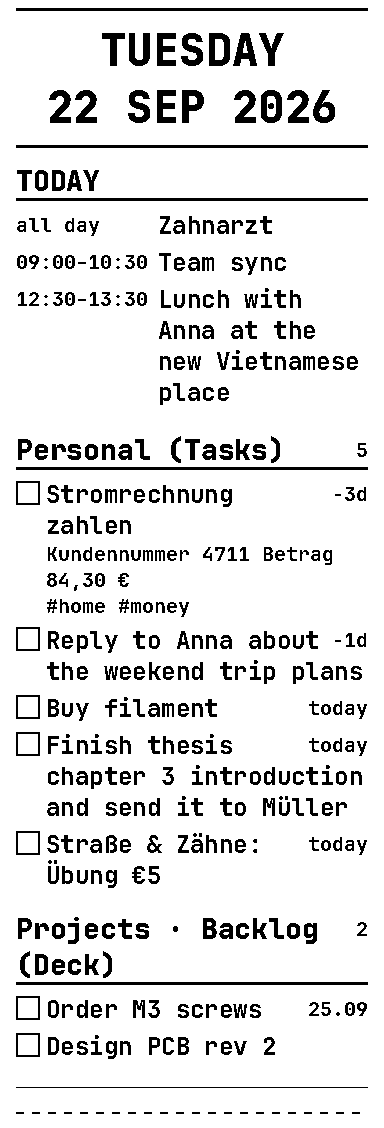
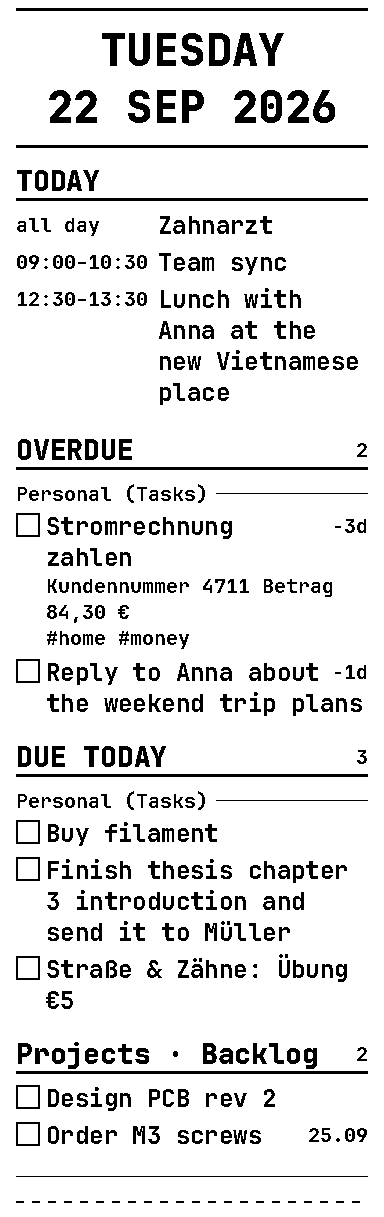
Manual prints stay silent; OVERDUE/DUE TODAY sections with list subgroups on receipt and in the terminal view

diff --git a/src/printcrastinator/receipt/layout.py b/src/printcrastinator/receipt/layout.py
@@ -15,6 +15,7 @@ from .model import (
     Rule,
     SectionHeader,
     Spacer,
+    SubHeader,
     TearLine,
     Text,
 )
@@ -77,21 +78,42 @@ def _source_label(t: TaskItem, lang: str) -> str:
     return f"{t.list_name} ({i18n.label(lang, 'src_' + t.source)})"
 
 
-def _grouped_sections(agenda: DailyAgenda, lang: str) -> list[tuple[str, list[TaskItem]]]:
-    """Tasks grouped by list/stack, each group sorted overdue first, then today, then rest."""
-    day = agenda.day
+def _by_list(items: list[TaskItem], lang: str, day: date) -> list[tuple[str, list[TaskItem]]]:
+    """Split items into (list label, items) groups; overdue oldest-first inside each group."""
     groups: dict[str, list[TaskItem]] = {}
-    for t in agenda.all_tasks:
+    for t in items:
         groups.setdefault(_source_label(t, lang), []).append(t)
 
     def rank(t: TaskItem) -> tuple:
-        late = t.days_late(day) if t.due else -(10**6)
-        return (0 if late > 0 else 1 if late == 0 else 2, -late, t.title.lower())
+        return (t.due or day, t.title.lower())
 
-    out = []
-    for name in sorted(groups, key=str.lower):
-        out.append((name, sorted(groups[name], key=rank)))
-    return out
+    return [(name, sorted(groups[name], key=rank)) for name in sorted(groups, key=str.lower)]
+
+
+def _section_items(
+    r: Receipt,
+    items: list[TaskItem],
+    agenda: DailyAgenda,
+    lang: str,
+    opt: Options,
+    *,
+    marker: bool = True,
+) -> None:
+    """Items of one section, optionally sub-grouped by list."""
+    if opt.group_by_list:
+        for name, group in _by_list(items, lang, agenda.day):
+            r.add(SubHeader(name))
+            for t in group:
+                right = _task_marker(t, agenda.day, lang) if marker else ""
+                r.add(CheckItem(t.title, right=right, meta=_notes(t, opt)))
+        return
+    for t in items:
+        right = _task_marker(t, agenda.day, lang) if marker else ""
+        meta_parts = [_source_label(t, lang)] if opt.show_list else []
+        n = _notes(t, opt)
+        if n:
+            meta_parts.append(n)
+        r.add(CheckItem(t.title, right=right, meta="\n".join(meta_parts)))
 
 
 def _status_marker(t: TaskItem, day: date, lang: str) -> str:
@@ -147,35 +169,13 @@ def daily_receipt(
         r.add(Text(i18n.label(lang, "no_tasks"), "body", "center"), Spacer(8))
         _footer(r, agenda, lang, opt)
         return r
-    if opt.group_by_list:
-        for name, items in _grouped_sections(agenda, lang):
-            r.add(SectionHeader(name, hint=str(len(items))))
-            for t in items:
-                r.add(
-                    CheckItem(
-                        t.title, right=_status_marker(t, agenda.day, lang), meta=_notes(t, opt)
-                    )
-                )
-            r.add(Spacer(14))
-        _footer(r, agenda, lang, opt)
-        return r
-
-    def meta_for(t: TaskItem) -> str:
-        parts = [_source_label(t, lang)] if opt.show_list else []
-        n = _notes(t, opt)
-        if n:
-            parts.append(n)
-        return "\n".join(parts)
-
     if agenda.overdue:
         r.add(SectionHeader(i18n.label(lang, "overdue"), hint=str(len(agenda.overdue))))
-        for t in agenda.overdue:
-            r.add(CheckItem(t.title, right=_task_marker(t, agenda.day, lang), meta=meta_for(t)))
+        _section_items(r, agenda.overdue, agenda, lang, opt)
         r.add(Spacer(14))
     if agenda.due_today:
         r.add(SectionHeader(i18n.label(lang, "due_today"), hint=str(len(agenda.due_today))))
-        for t in agenda.due_today:
-            r.add(CheckItem(t.title, meta=meta_for(t)))
+        _section_items(r, agenda.due_today, agenda, lang, opt, marker=False)
         r.add(Spacer(14))
     for group in agenda.always:
         if not group.items:

diff --git a/src/printcrastinator/tui.py b/src/printcrastinator/tui.py
@@ -27,11 +27,14 @@ class TaskRow(Static):
     TaskRow.busy { color: $warning; }
     """
 
-    def __init__(self, task: dict[str, Any], today: date, lang: str) -> None:
+    def __init__(
+        self, task: dict[str, Any], today: date, lang: str, show_list: bool = True
+    ) -> None:
         super().__init__(markup=True)
         self.item = task
         self.today = today
         self.lang = lang
+        self.show_list = show_list
         self.done = False
         self.busy = False
         self.refresh_text()
@@ -54,7 +57,7 @@ class TaskRow(Static):
                 marker = f"  [dim]{due.strftime('%d.%m')}[/dim]"
         busy = "  [yellow]…[/yellow]" if self.busy else ""
         src = i18n.label(self.lang, "src_" + t["source"])
-        where = f"  [dim]{t['list_name']} · {src}[/dim]".replace("[dim]", "[dim]", 1)
+        where = f"  [dim]{t['list_name']} · {src}[/dim]" if self.show_list else ""
         lines = [f"{box}{title}{marker}{where}{busy}"]
         notes = (t.get("notes") or "").strip()
         if notes:
@@ -79,6 +82,7 @@ class TaskView(App):
     #ai-input { dock: bottom; border: round $accent; background: $surface; }
     #ai-input:focus { border: round $warning; }
     .section { color: $accent; text-style: bold; padding: 1 1 0 1; }
+    .subsection { padding: 0 1; margin-top: 1; }
     #summary { color: $text; }
     """
     BINDINGS = [
@@ -185,8 +189,18 @@ class TaskView(App):
             box.mount(Static(f"[dim]{i18n.label(self.lang, 'no_tasks')}[/dim]", classes="section"))
         for name, items in sections:
             box.mount(Static(f"{name}  [dim]{len(items)}[/dim]", classes="section"))
-            for t in items:
-                box.mount(TaskRow(t, today, self.lang))
+            if self.cfg.daily.group_by_list:
+                by: dict[str, list[dict[str, Any]]] = {}
+                for t in items:
+                    key = f"{t['list_name']} · {i18n.label(self.lang, 'src_' + t['source'])}"
+                    by.setdefault(key, []).append(t)
+                for key in sorted(by, key=str.lower):
+                    box.mount(Static(f"[dim b]{key}[/dim b]", classes="subsection"))
+                    for t in by[key]:
+                        box.mount(TaskRow(t, today, self.lang, show_list=False))
+            else:
+                for t in items:
+                    box.mount(TaskRow(t, today, self.lang))
         if a.get("overdue_hidden"):
             box.mount(
                 Static(

diff --git a/src/printcrastinator/daemon.py b/src/printcrastinator/daemon.py
@@ -125,7 +125,7 @@ class Daemon:
             self.polls += 1
             if ok or self.state.tasks or self.state.cards:
                 self._queue_new_items()
-        await self.maybe_print_daily()
+        await self.maybe_print_daily(screen=True)
         await self.maybe_print_slip()
         return ok
 
@@ -229,11 +229,17 @@ class Daemon:
         async with self._lock:
             await self._refresh_sources(date.today())
             self.last_poll_at = time.time()
-        return await self.maybe_print_daily(force=True, reason="test-cycle")
+        return await self.maybe_print_daily(force=True, reason="test-cycle", screen=True)
 
     async def maybe_print_daily(
-        self, force: bool = False, reason: str = "poll", layout_mode: str | None = None
+        self,
+        force: bool = False,
+        reason: str = "poll",
+        layout_mode: str | None = None,
+        screen: bool = False,
     ) -> dict[str, Any]:
+        """screen=True (automatic morning trigger / full-cycle test) also notifies and opens the
+        terminal window. Manual prints from UI, CLI, TUI or AI stay silent."""
         today = date.today()
         now = datetime.now()
         if not force and now.hour < self.cfg.daily.earliest_hour:
@@ -250,7 +256,8 @@ class Daemon:
             return {"printed": False, "reason": "already done today"}
         if force and not self.db.daily_status(today):
             self.db.claim_daily(today)
-        self.show_on_screen(ag)
+        if screen:
+            self.show_on_screen(ag)
         on_paper = ag.has_tasks or (self.cfg.daily.print_calendar_only_days and ag.has_events)
         if not on_paper:
             self.db.mark_daily_printed(today, on_paper=False, task_count=0)

diff --git a/src/printcrastinator/render/image.py b/src/printcrastinator/render/image.py
@@ -18,6 +18,7 @@ from ..receipt.model import (
     SectionHeader,
     Size,
     Spacer,
+    SubHeader,
     TearLine,
     Text,
 )
@@ -142,6 +143,18 @@ def _section(c: _Canvas, b: SectionHeader) -> None:
     c.y += 3 + 8
 
 
+def _subheader(c: _Canvas, b: SubHeader) -> None:
+    lh = _line_height("small")
+    c.ensure(lh + 6)
+    c.y += 2
+    _draw_text(c, MARGIN, b.text, "small")
+    w = text_width(b.text, "small")
+    # thin rule to the right of the label
+    if MARGIN + w + 8 < WIDTH - MARGIN:
+        c.draw.rectangle((MARGIN + w + 8, c.y + lh // 2, WIDTH - MARGIN - 1, c.y + lh // 2), fill=0)
+    c.y += lh + 4
+
+
 def _event(c: _Canvas, b: EventLine) -> None:
     lh = _line_height("body")
     time_w = text_width("00:00–00:00", "small") + 10
@@ -235,6 +248,8 @@ def _render_block(c: _Canvas, b: Block) -> None:
             _text_block(c, b)
         case SectionHeader():
             _section(c, b)
+        case SubHeader():
+            _subheader(c, b)
         case EventLine():
             _event(c, b)
         case CheckItem():

diff --git a/src/printcrastinator/render/terminal.py b/src/printcrastinator/render/terminal.py
@@ -13,6 +13,7 @@ from ..receipt.model import (
     Rule,
     SectionHeader,
     Spacer,
+    SubHeader,
     TearLine,
     Text,
 )
@@ -39,6 +40,8 @@ def render(receipt: Receipt, console: Console | None = None) -> None:
                 if h:
                     line.append(f"  {h}", style="dim")
                 console.print(line)
+            case SubHeader(text=t):
+                console.print(RText(f"  {t}", style="dim bold"))
             case EventLine(time=t, title=title):
                 console.print(RText.assemble((f"{t:<12}", "cyan"), title))
             case CheckItem(title=t, right=r, meta=m):

diff --git a/src/printcrastinator/receipt/model.py b/src/printcrastinator/receipt/model.py
@@ -34,6 +34,13 @@ class SectionHeader:
 
 
 @dataclass(frozen=True)
+class SubHeader:
+    """Small group label inside a section, e.g. the task list name."""
+
+    text: str
+
+
+@dataclass(frozen=True)
 class EventLine:
     time: str  # "09:00–10:30" or "all day"
     title: str
@@ -58,7 +65,9 @@ class Picture:
     dither: bool = False
 
 
-Block = Rule | Spacer | Text | SectionHeader | EventLine | CheckItem | TearLine | Picture
+Block = (
+    Rule | Spacer | Text | SectionHeader | SubHeader | EventLine | CheckItem | TearLine | Picture
+)
 
 
 @dataclass
